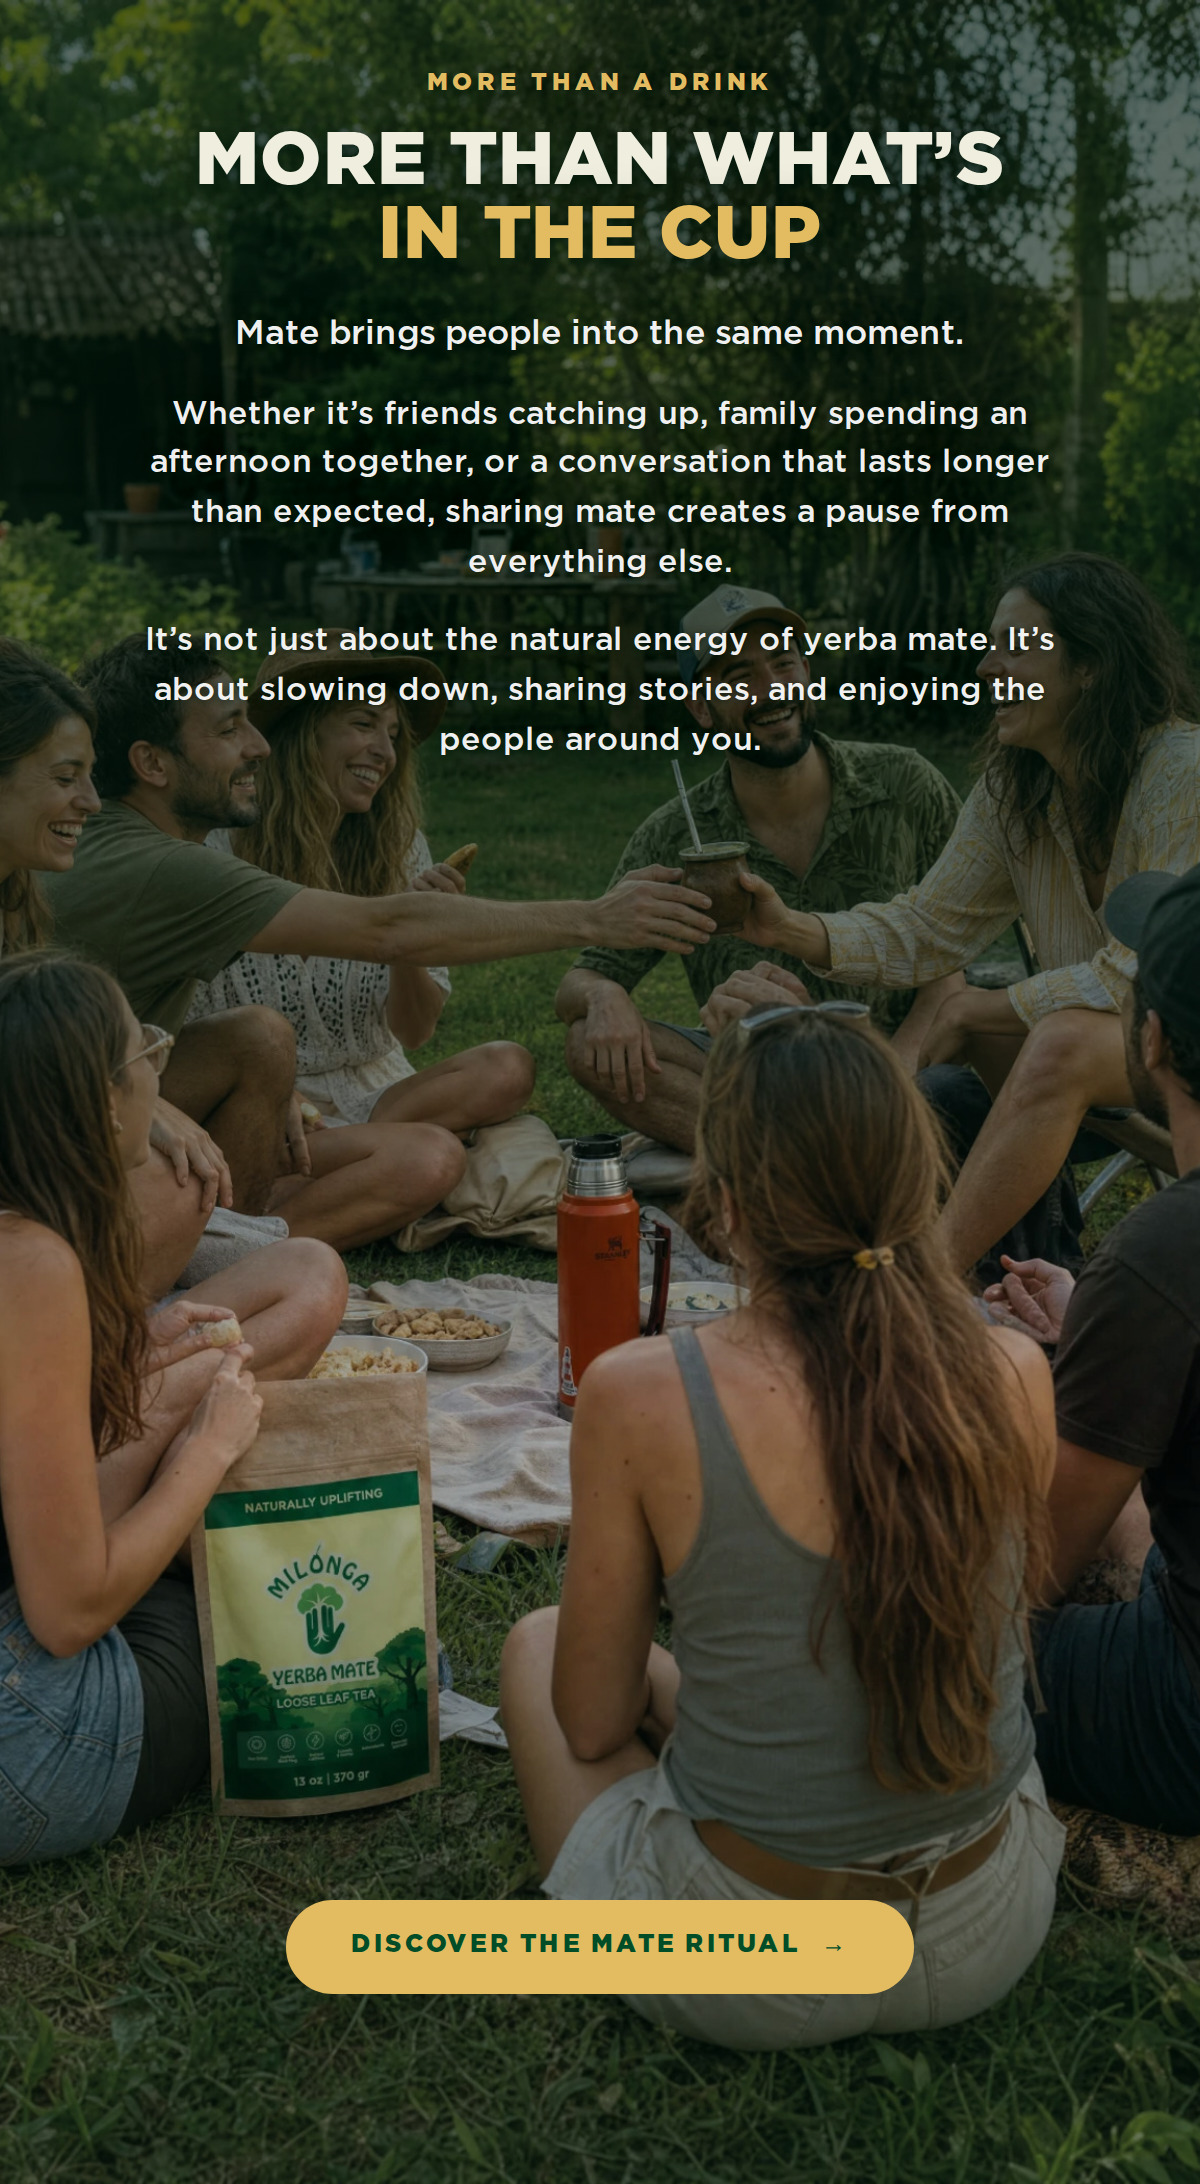
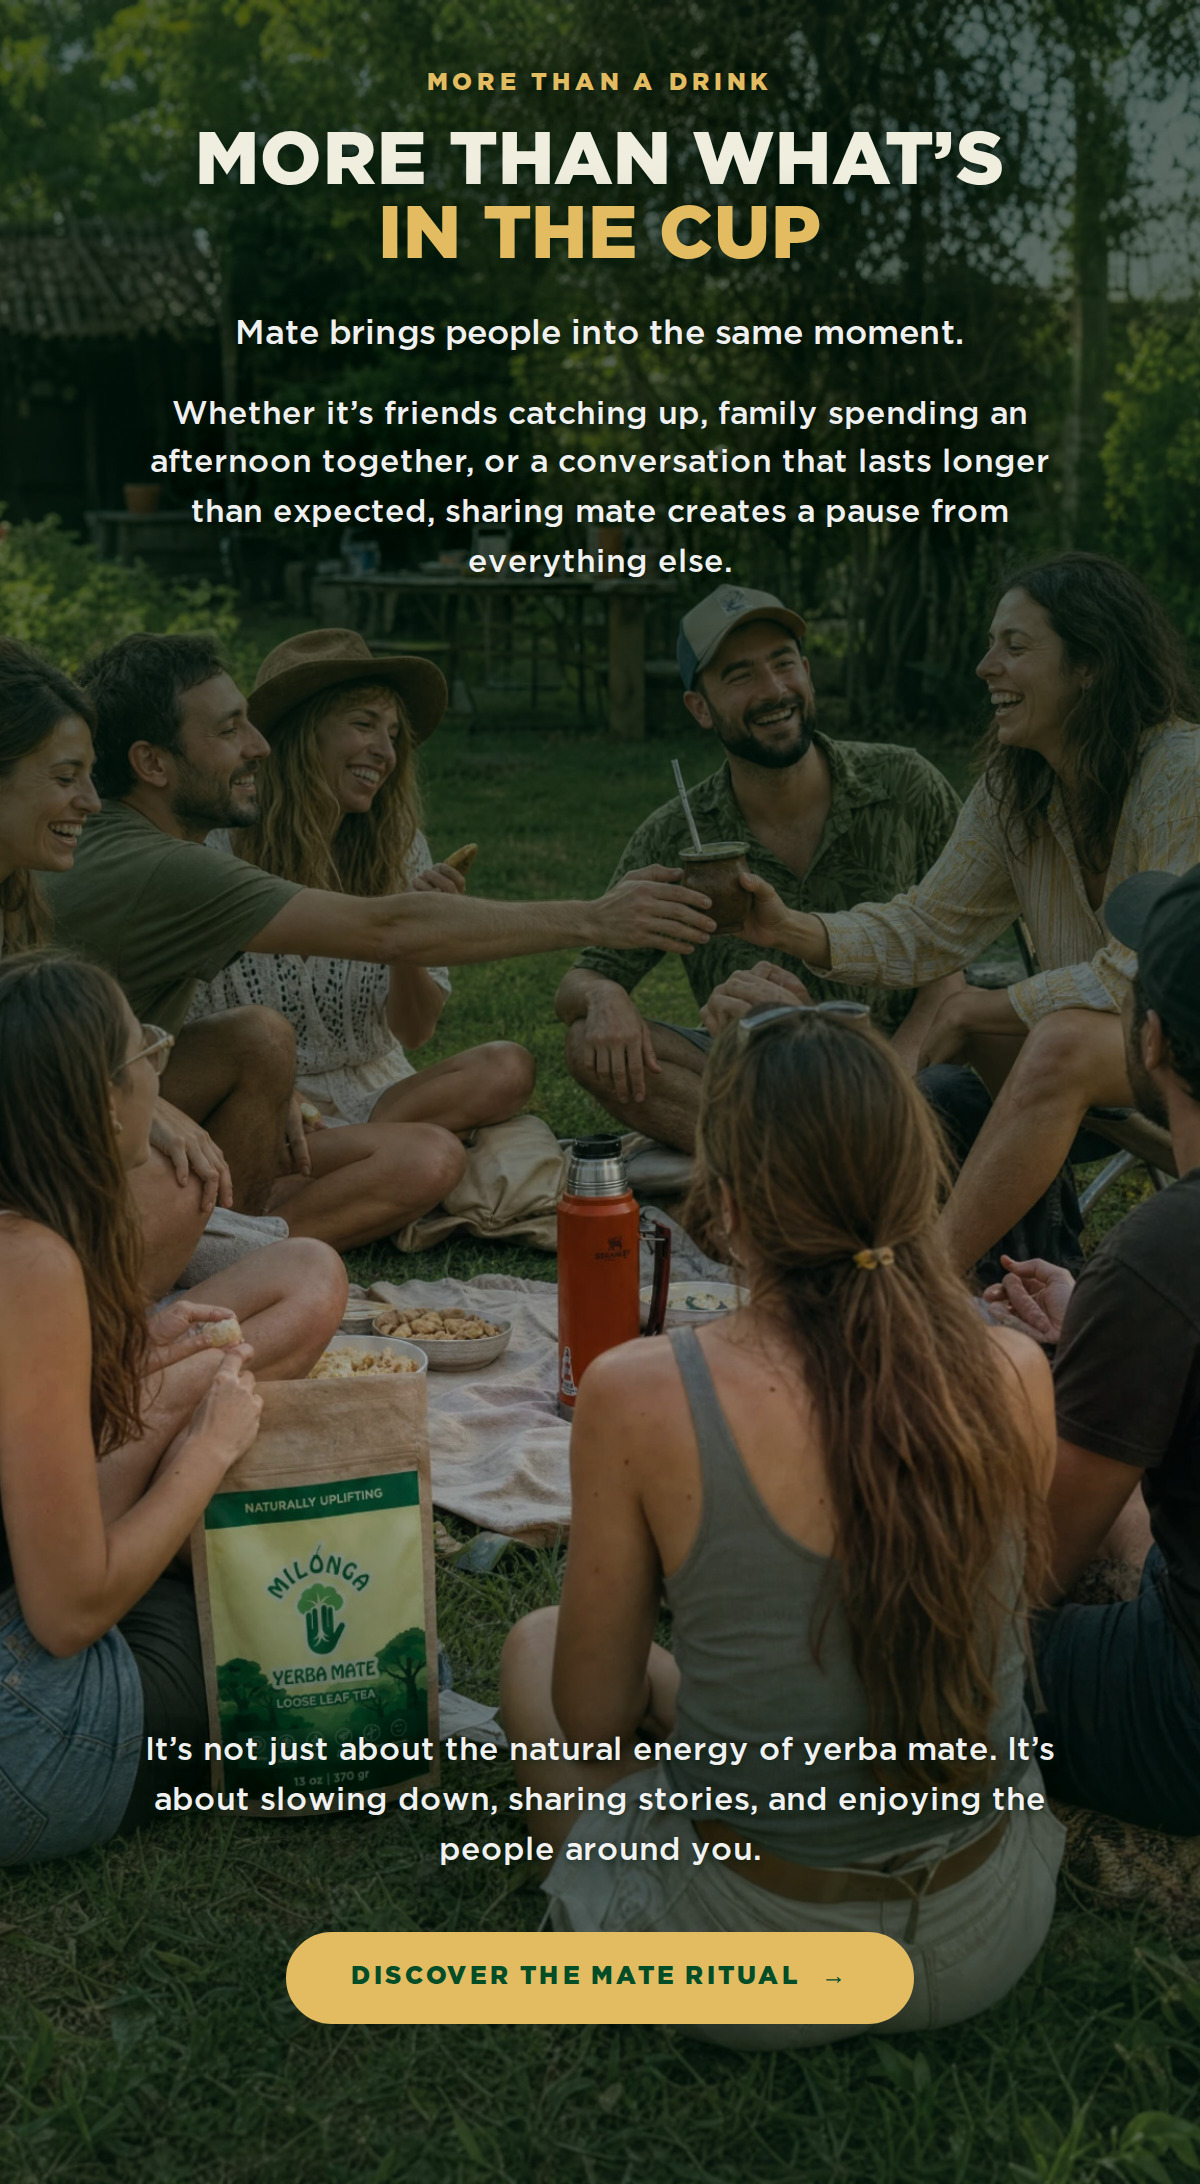
Rework the mate-ritual copy; add tailParas to T9Story
Section 1 goes to the single rewritten opening paragraph, replacing both of
the old ones. The frame comes down with it — 1.72 to 1.62 — because in T9 the
ratio is what holds the picture's subject below the copy, so shorter copy on
an unchanged frame opens a dead gap above the hands rather than tightening.

Section 2 gets `tailParas`: paragraphs that ride down with the CTA instead of
stacking under the title. That is what opens a clear window in the middle of
the photograph — the whole circle, the sharing gesture and the pouch are now
visible — without cutting a word. Only the LAST paragraph can move this way;
moving a middle one would break the reading order and the reader would feel
the jump, so the prop is documented as last-only.

The bottom scrim adapts to what it has to protect. A lone button needs the
last 16% of the frame; a paragraph riding with it needs roughly twice that,
and starting the lift too late is exactly how a paragraph ends up half
legible on a bright patch of picture.

The tail block sits at 79% rather than 76% so it clears the Milonga pouch —
at 76% the copy crossed the pack's spec line, which is the one thing in that
photograph that should never have type over it.

Claude-Session: https://claude.ai/code/session_01NhEtXPnfeCJfN73SqBkUZ5

Changed region(s): [[0.1233, 0.7784, 0.8942, 0.9341], [0.1233, 0.2802, 0.8633, 0.3425]]

diff --git a/email-ds/src/components/HeroTemplates.tsx b/email-ds/src/components/HeroTemplates.tsx
@@ -942,7 +942,18 @@ export function T8Callouts({
 
    The scrim is weighted to the top, where the type is, and lifts again at the
    bottom only if there is a button to protect. The middle stays clear — that
-   is the part of the picture you chose the section for. ──────────────────── */
+   is the part of the picture you chose the section for.
+
+   SPLITTING THE COPY: `paras` vs `tailParas`
+   ------------------------------------------
+   Everything in `paras` stacks under the title. Anything in `tailParas` travels
+   down with the CTA instead, which is how you open a clear window in the middle
+   of the picture without cutting a word — the last paragraph reads as the line
+   before the button, where it was always going to be read anyway.
+
+   Use it when the copy is long enough that the top stack reaches into the
+   subject. Moving the LAST paragraph down keeps the reading order intact;
+   moving a middle one does not, and the reader will feel the jump. ────────── */
 
 export interface T9Props {
   src: string;
@@ -956,8 +967,14 @@ export interface T9Props {
   line2?: string;
   /** The paragraphs, in order. The first is set a little larger as a lead. */
   paras?: string[];
+  /**
+   * Paragraphs that ride down with the CTA instead of stacking under the
+   * title, leaving the middle of the photograph clear. Use the LAST of the
+   * copy here, never a middle one — the reading order has to survive.
+   */
+  tailParas?: string[];
   cta?: Cta;
-  /** Where the CTA sits, as a share of the frame. */
+  /** Where the CTA GROUP starts — tail paragraphs first, then the button. */
   at?: string;
   /** Headline size. */
   size?: number;
@@ -981,6 +998,7 @@ export function T9Story({
   line1,
   line2,
   paras = [],
+  tailParas = [],
   cta,
   at = '88%',
   size = 38,
@@ -992,10 +1010,16 @@ export function T9Story({
   bg = 'beige',
 }: T9Props) {
   const k = (v: number) => Math.min(1, v * scrim).toFixed(2);
-  // Two stops at the bottom only when a button needs to sit on the picture.
-  const tail = cta
-    ? `rgba(0,26,13,${k(0.30)}) 84%, rgba(0,26,13,${k(0.44)}) 100%`
-    : `rgba(0,26,13,${k(0.06)}) 84%, rgba(0,26,13,${k(0.14)}) 100%`;
+  const hasTailCopy = tailParas.length > 0;
+  // The bottom lift has to start above whatever sits down there. A lone button
+  // needs the last 16%; a paragraph riding with it needs roughly twice that,
+  // and starting the lift too late is what leaves a paragraph half-legible on
+  // a bright patch of picture.
+  const tail = !cta && !hasTailCopy
+    ? `rgba(0,26,13,${k(0.06)}) 84%, rgba(0,26,13,${k(0.14)}) 100%`
+    : hasTailCopy
+      ? `rgba(0,26,13,${k(0.20)}) 70%, rgba(0,26,13,${k(0.46)}) 84%, rgba(0,26,13,${k(0.52)}) 100%`
+      : `rgba(0,26,13,${k(0.30)}) 84%, rgba(0,26,13,${k(0.44)}) 100%`;
   const shadow = '0 2px 6px rgba(0,26,13,0.62), 0 4px 22px rgba(0,26,13,0.55)';
   const softShadow = '0 1px 4px rgba(0,26,13,0.72), 0 3px 16px rgba(0,26,13,0.55)';
 
@@ -1045,9 +1069,30 @@ export function T9Story({
         ))}
       </div>
 
-      {cta ? (
+      {cta || hasTailCopy ? (
         <div style={{ position: 'absolute', top: at, left: 0, right: 0, padding: '0 30px', textAlign: 'center' }}>
-          <Pill cta={cta} fill={colors.gold} ink={colors.forest} />
+          {tailParas.map((p, i) => (
+            <div
+              key={i}
+              style={{
+                fontFamily: fontStack,
+                fontWeight: 500,
+                fontSize: 16,
+                lineHeight: 1.56,
+                color: 'rgba(255,255,255,0.95)',
+                maxWidth: measure,
+                margin: `${i === 0 ? 0 : 14}px auto 0`,
+                textShadow: softShadow,
+              }}
+            >
+              {p}
+            </div>
+          ))}
+          {cta ? (
+            <div style={{ marginTop: hasTailCopy ? 28 : 0 }}>
+              <Pill cta={cta} fill={colors.gold} ink={colors.forest} />
+            </div>
+          ) : null}
         </div>
       ) : null}
     </Frame>

diff --git a/email-ds/emails/mate-ritual.jsx b/email-ds/emails/mate-ritual.jsx
@@ -29,10 +29,11 @@ function MateRitual() {
       line1: 'Why mate is meant',
       line2: 'to be shared 🧉',
       paras: [
-        'For generations, friends and families have gathered around a single mate. One person prepares it — the cebador — and passes it around the circle, one person at a time. You take a sip, pass it on, and keep the conversation going.',
-        'There’s no rush. The mate gives everyone a reason to stay, talk, laugh, and be present with one another. That simple ritual has made mate an everyday symbol of friendship, family, and connection across Argentina.',
+        'Mate is more than a drink. It is a ritual built around sharing, connection, and being present. In Argentina, people gather around one mate, passing it from person to person while stories, laughter, and conversations flow. It is a simple tradition that brings people closer and creates a reason to slow down and enjoy the moment together.',
       ],
-      ratio: 1.72,
+      // One paragraph instead of two, so the frame comes down with it — leaving
+      // the old 1.72 would open a dead gap between the copy and the hands.
+      ratio: 1.62,
       focus: 'center 50%',
       size: 37,
       top: 28,
@@ -52,10 +53,14 @@ function MateRitual() {
       paras: [
         'Mate brings people into the same moment.',
         'Whether it’s friends catching up, family spending an afternoon together, or a conversation that lasts longer than expected, sharing mate creates a pause from everything else.',
+      ],
+      // The last paragraph rides down with the button instead of stacking
+      // under the title — that is what opens the clear window over the circle.
+      tailParas: [
         'It’s not just about the natural energy of yerba mate. It’s about slowing down, sharing stories, and enjoying the people around you.',
       ],
       cta: { label: 'Discover the Mate Ritual', href: '#', arrow: true },
-      at: '87%',
+      at: '79%',
       ratio: 1.82,
       focus: 'center 52%',
       size: 37,
